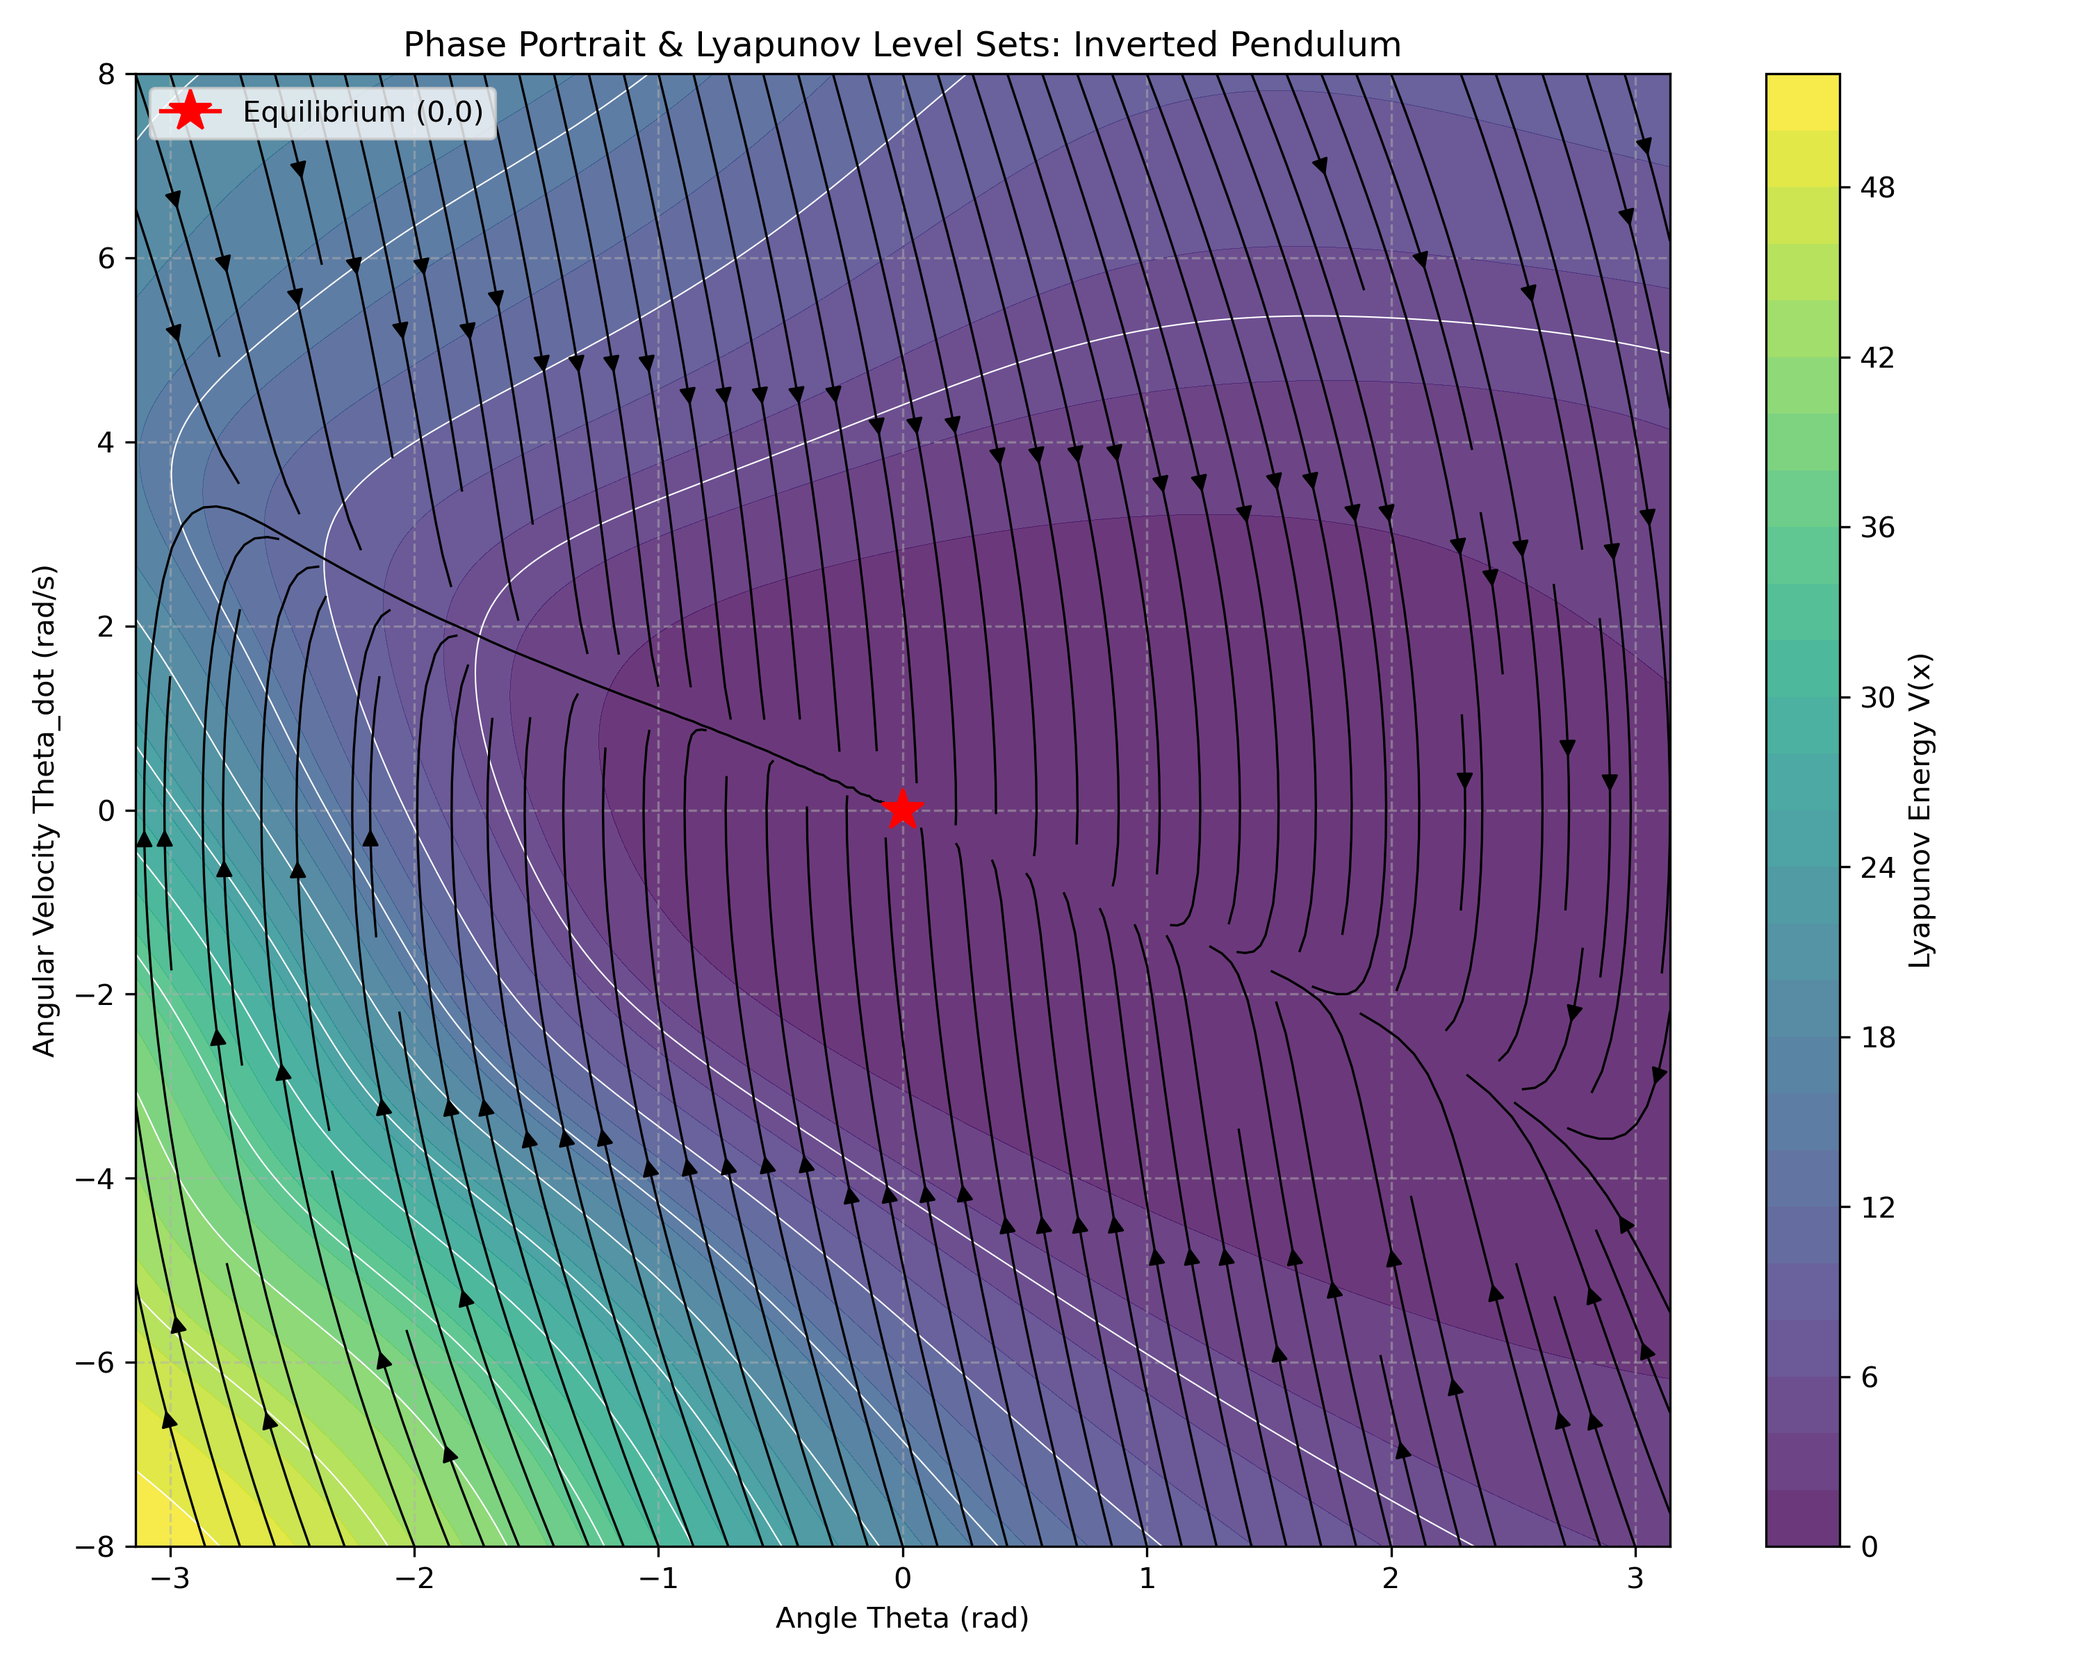
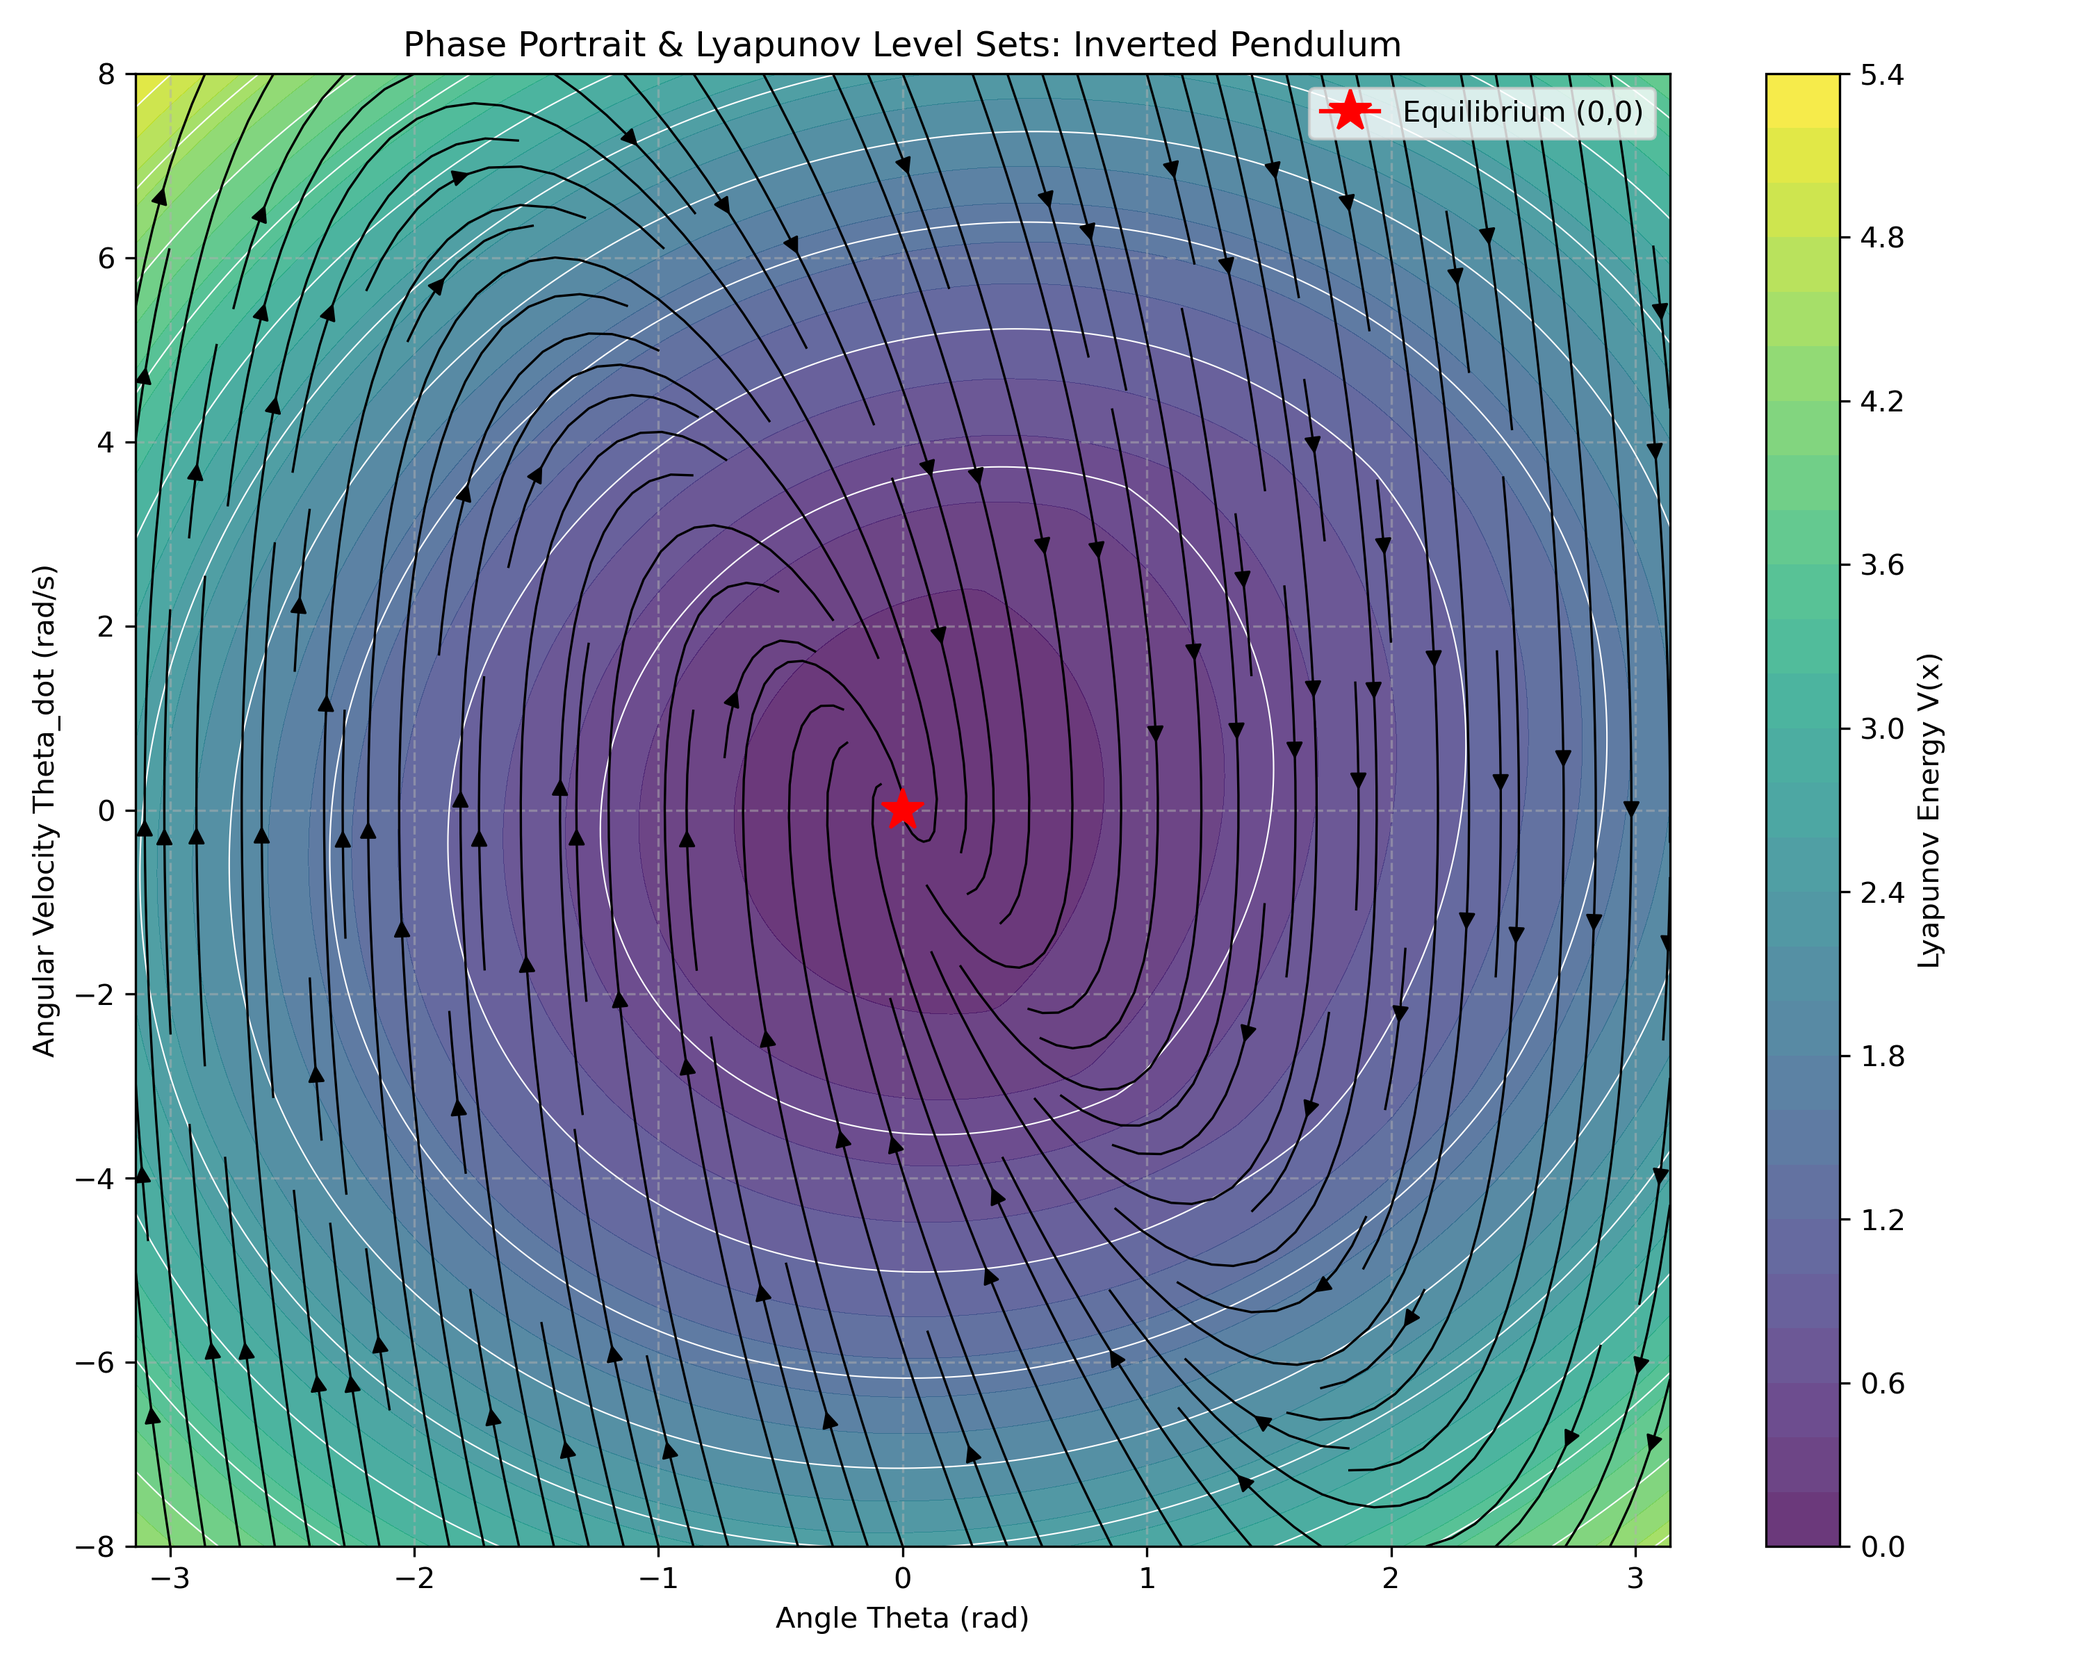
Refactor PGD attacker and CEGIS loop for improved performance; update neural controller bounds and training parameters

diff --git a/core/cegis.py b/core/cegis.py
@@ -130,11 +130,17 @@ class PGDAttacker:
             loss_attack.backward()
 
             with torch.no_grad():
-                x_adv = x + self.step_size * x.grad.sign()
+                # TÍNH TOÁN BƯỚC CHÂN TỈ LỆ VỚI KHÔNG GIAN
+                span = x_max - x_min
+                # step_size (vd: 0.01) giờ là 1% của toàn bộ dải vật lý
+                scaled_step = span * self.step_size 
+                
+                x_adv = x + scaled_step * x.grad.sign()
+                
                 if self.noise_scale > 0.0:
-                    # Nhiễu giảm dần theo bước để thoát plateau nhưng vẫn hội tụ cuối vòng.
                     anneal = 1.0 - (step_idx / max(1, self.num_steps - 1))
-                    x_adv = x_adv + self.noise_scale * anneal * torch.randn_like(x_adv)
+                    x_adv = x_adv + self.noise_scale * anneal * span * torch.randn_like(x_adv)
+                
                 x_adv = torch.clamp(x_adv, min=x_min, max=x_max)
 
             x = x_adv.clone().detach().requires_grad_(True)
@@ -232,6 +238,8 @@ class CEGISLoop:
         self,
         x_seed: torch.Tensor,
         x_bounds: tuple,
+        K: torch.Tensor,  # <--- Thêm K
+        S: torch.Tensor,  # <--- Thêm S
         alpha_lyap: float = 0.01,
         train_batch_size: int | None = None,
     ):
@@ -246,34 +254,58 @@ class CEGISLoop:
             train_batch_size = x_seed.shape[0]
 
         x_train = self._build_training_batch(x_bad, train_batch_size)
-        loss = self.learner_step(x_train, alpha_lyap=alpha_lyap)
+        
+        # DEBUG: Kiểm tra mức độ violation từ attacker
+        with torch.no_grad():
+            u_debug = self.controller(x_bad)
+            x_next_debug = self.dynamics.step(x_bad, u_debug)
+            V_curr_debug = self.lyapunov(x_bad)
+            V_next_debug = self.lyapunov(x_next_debug)
+            violation_debug = V_next_debug - (1.0 - alpha_lyap) * V_curr_debug
+            max_violation = torch.max(violation_debug).item()
+            mean_violation = torch.mean(violation_debug).item()
+        
+        loss = self.learner_step(x_train, alpha_lyap=alpha_lyap, K=K, S=S)  # <--- Truyền K, S vào đây
 
         return {
             "loss": loss,
             "bank_size": self.counterexample_bank.size,
             "num_new_bad": int(x_bad.shape[0]),
             "train_batch_size": int(x_train.shape[0]),
+            "max_violation": max_violation,
+            "mean_violation": mean_violation,
         }
 
-    def learner_step(self, x_samples: torch.Tensor, alpha_lyap: float = 0.01):
-        """
-        Một bước huấn luyện (Cập nhật trọng số mạng Neural)
-        """
+    def learner_step(self, x_samples: torch.Tensor, alpha_lyap: float, K: torch.Tensor, S: torch.Tensor):
         self.optimizer.zero_grad()
         
+        # --- 1. LOSS VI PHẠM TỪ PGD (Mở rộng ranh giới) ---
         u = self.controller(x_samples)
         x_next = self.dynamics.step(x_samples, u)
-        
         V_curr = self.lyapunov(x_samples)
         V_next = self.lyapunov(x_next)
+        lyap_decrease_loss = torch.mean(torch.relu(V_next - (1.0 - alpha_lyap) * V_curr))
         
-        # Hàm suy hao Lyapunov: V_next - V_curr <= -alpha * V_curr
-        # => V_next - (1 - alpha) * V_curr <= 0
-        # ReLU sẽ chỉ phạt những điểm lớn hơn 0 (tức là những điểm vi phạm)
-        lyap_decrease_loss = torch.mean(torch.relu(V_next - (1 - alpha_lyap) * V_curr))
+        # --- 2. LOSS MỎ NEO LQR (Giữ hình dáng vật lý tại trung tâm) ---
+        device = x_samples.device
+        # Sinh một batch nhỏ quanh gốc tọa độ (bán kính 0.1)
+        x_small = (torch.rand((128, self.dynamics.nx), device=device) * 2.0 - 1.0) * 0.1
         
-        loss = lyap_decrease_loss
+        u_nn = self.controller(x_small)
+        u_lqr = -torch.matmul(x_small, K.T)
+        u_lqr = torch.clamp(u_lqr, min=-self.controller.u_bound, max=self.controller.u_bound)
+        loss_u = torch.nn.functional.mse_loss(u_nn, u_lqr)
+        
+        V_nn = self.lyapunov(x_small)
+        V_lqr = torch.einsum("bi,ij,bj->b", x_small, S, x_small).unsqueeze(1)
+        loss_v = torch.nn.functional.mse_loss(V_nn, V_lqr)
+        
+        # Gộp loss: Diệt điểm mù (trọng số 1.0) + Giữ mỏ neo (trọng số 0.01 - GẢM từ 0.1)
+        # Giảm anchor weight để learner không bị distract, tập trung vào violation
+        loss = lyap_decrease_loss + 0.01 * (loss_u + loss_v)
+        
         loss.backward()
         self.optimizer.step()
         
+        # FIX: Trả về loss THỰC TẾ được backprop, không phải từng bộ phận mà bị ignore
         return loss.item()

diff --git a/core/models.py b/core/models.py
@@ -5,25 +5,29 @@ import torch.nn as nn
 # 1. NEURAL CONTROLLER
 # ==========================================
 class NeuralController(nn.Module):
-    def __init__(self, nx: int, nu: int, hidden_sizes: list = [64, 64], u_bound: float = 1.0):
+    def __init__(self, nx: int, nu: int, hidden_sizes: list = [64, 64], u_bound: float = 6.0):
         super().__init__()
         self.u_bound = u_bound
+        
+        # [BẢN VÁ]: Khởi tạo giới hạn vật lý để chuẩn hóa (Góc 3.14, Vận tốc 8.0)
+        self.register_buffer("state_limits", torch.tensor([3.1415, 8.0]))
         
         layers = []
         in_size = nx
         for h in hidden_sizes:
             layers.append(nn.Linear(in_size, h))
-            layers.append(nn.Tanh())  # Tanh giúp gradient mượt hơn ReLU trong hệ động lực học
+            layers.append(nn.Tanh())  
             in_size = h
             
         layers.append(nn.Linear(in_size, nu))
-        # Giới hạn lực điều khiển đầu ra trong khoảng [-u_bound, u_bound]
         layers.append(nn.Tanh()) 
         
         self.net = nn.Sequential(*layers)
 
     def forward(self, x: torch.Tensor) -> torch.Tensor:
-        return self.net(x) * self.u_bound
+        # Ép x vật lý về x_norm nằm trong khoảng [-1, 1] để Tanh không bị bão hòa
+        x_norm = x / self.state_limits
+        return self.net(x_norm) * self.u_bound
 
 
 # ==========================================
@@ -33,6 +37,9 @@ class NeuralLyapunov(nn.Module):
     def __init__(self, nx: int, hidden_sizes: list = [64, 64], eps: float = 0.01):
         super().__init__()
         
+        # [BẢN VÁ]: Giới hạn chuẩn hóa
+        self.register_buffer("state_limits", torch.tensor([3.1415, 8.0]))
+        
         layers = []
         in_size = nx
         for h in hidden_sizes:
@@ -40,36 +47,35 @@ class NeuralLyapunov(nn.Module):
             layers.append(nn.Tanh())
             in_size = h
         
-        # Đầu ra của phi_V không cần bị giới hạn số chiều, nhưng thường để bằng nx
         layers.append(nn.Linear(in_size, nx)) 
         self.phi_V = nn.Sequential(*layers)
         
-        # Ma trận R (có thể học được) và hằng số eps cho cụm Positive Definite
-        self.R = nn.Parameter(torch.randn(nx, nx) * 0.1)
+        # FIX: Khởi tạo R lớn hơn (từ 0.1 → 0.5) để P = R^T*R kích thước hợp lý
+        self.R = nn.Parameter(torch.randn(nx, nx) * 0.5)
         self.eps = eps
         
-        # Lưu trước ma trận đơn vị để không phải tạo lại mỗi lần forward
         self.register_buffer("eye", torch.eye(nx))
         self.register_buffer("origin", torch.zeros(1, nx))
 
     def forward(self, x: torch.Tensor) -> torch.Tensor:
-        """
-        Công thức: V(x) = ||phi_V(x) - phi_V(0)||_1 + x^T * (eps * I + R^T * R) * x
-        """
-        # 1. Tính toán phần phi_V(0) (yêu cầu không có gradient backprop qua số 0)
-        zero = self.origin.to(device=x.device, dtype=x.dtype)
+        # 1. Tính phi_0
+        zero_norm = self.origin / self.state_limits
         with torch.no_grad():
-            phi_0 = self.phi_V(zero)   # shape (1, nx)
+            phi_0 = self.phi_V(zero_norm)
 
-        # 2. Tính ||phi_V(x) - phi_V(0)||_1 (Tổng giá trị tuyệt đối dọc theo các chiều state)
-        phi_x = self.phi_V(x)          # shape (B, nx)
+        # 2. Tính ||phi_V(x) - phi_V(0)||_1 trên x đã chuẩn hóa
+        x_norm = x / self.state_limits
+        phi_x = self.phi_V(x_norm)          
         term1 = torch.sum(torch.abs(phi_x - phi_0), dim=1, keepdim=True)
         
-        # 3. Tính x^T * P * x, trong đó P = eps*I + R^T * R
-        # Phép tính này phải thực hiện theo batch ma trận.
+        # 3. Tính x^T * P * x 
+        # (LƯU Ý: Tuyệt đối dùng x GỐC ở đây để bảo toàn kích thước vật lý của mỏ neo LQR)
         P = self.eps * self.eye + torch.matmul(self.R.T, self.R)
-        
-        # torch.einsum('bi,ij,bj->b'...) tính x^T P x cho toàn bộ batch rất nhanh và gọn
         term2 = torch.einsum('bi,ij,bj->b', x, P, x).unsqueeze(1)
         
-        return term1 + term2
+        # 4. BỨC TỎNG GIỚI HẠN V CÓ KÍCH THƯỚC HỢP LÝ:
+        # Thêm max thấp nhất là 0.01 để đảm bảo V > 0 luôn
+        # và có kích thước thích hợp để gradient PGD có thể hoạt động hiệu quả
+        V = term1 + term2
+        V = torch.relu(V) + 0.01
+        return V

diff --git a/train.py b/train.py
@@ -22,9 +22,10 @@ def train():
     S = S.to(device)
 
     # 2. Khởi tạo models
-    controller = NeuralController(nx=2, nu=1, u_bound=2.0).to(device)
+    controller = NeuralController(nx=2, nu=1, u_bound=6.0).to(device)
     lyapunov = NeuralLyapunov(nx=2).to(device)
-    attacker = PGDAttacker(dynamics, controller, lyapunov, num_steps=10, num_restarts=3)
+    # TỐI ƯU HÓA PHASE 2: Giảm steps (100→50) vì backward quá chậm
+    attacker = PGDAttacker(dynamics, controller, lyapunov, num_steps=50, step_size=0.04, num_restarts=3)
     optimizer = optim.Adam(list(controller.parameters()) + list(lyapunov.parameters()), lr=1e-3)
 
     # 3. Khởi tạo CEGIS loop có CounterexampleBank nội bộ
@@ -39,10 +40,10 @@ def train():
         replay_new_ratio=0.25,
     )
 
-    batch_size = 1000
-    attack_seed_size = 500
+    batch_size = 512  # Giảm từ 1000 → 512
+    attack_seed_size = 256  # Giảm từ 500 → 256
     train_batch_size = batch_size
-    learner_updates = 5
+    learner_updates = 2  # Giảm từ 5 → 2
 
     # =========================================================
     # PHASE 1: LQR PRE-TRAINING
@@ -74,28 +75,40 @@ def train():
     # PHASE 2: CEGIS LOOP
     # =========================================================
     print("\n--- BẮT ĐẦU PHASE 2: CEGIS LOOP ---")
-    epochs = 500
+    epochs = 300  # Giảm từ 500 → 300 epochs
     alpha_lyap = 0.05
     for epoch in range(epochs):
         total_loss = 0
         bank_size = 0
 
+        # TÍNH TOÁN RANH GIỚI TÌM KIẾM ĐỘNG (CURRICULUM LEARNING)
+        # Đi từ 50% không gian ở Epoch 0 lên 100% không gian ở Epoch cuối (từ 10% → 50%)
+        progress = epoch / max(1, epochs - 1)
+        current_scale = 0.5 + 0.5 * progress
+        current_x_min = x_min * current_scale
+        current_x_max = x_max * current_scale
+        current_bounds = (current_x_min, current_x_max)
+
         for _ in range(learner_updates):
-            # Seed rải đều toàn miền để attacker khám phá phản ví dụ mới liên tục.
-            x_seeds = x_min + torch.rand((attack_seed_size, 2), device=device) * (x_max - x_min)
+            # Seed rải đều trong vùng giới hạn hiện tại, KHÔNG rải toàn miền
+            x_seeds = current_x_min + torch.rand((attack_seed_size, 2), device=device) * (current_x_max - current_x_min)
+            
             info = cegis.cegis_step(
                 x_seed=x_seeds,
-                x_bounds=x_bounds,
+                x_bounds=current_bounds, # <-- Truyền ranh giới đã thu nhỏ
+                K=K,
+                S=S,
                 alpha_lyap=alpha_lyap,
                 train_batch_size=train_batch_size,
             )
             total_loss += info["loss"]
             bank_size = info["bank_size"]
 
-        if epoch % 20 == 0:
+        if epoch % 30 == 0:  # Tăng checkpoint từ 20 → 30
             print(
-                f"CEGIS Epoch {epoch:03d} | Counterexample Bank: {bank_size} | "
-                f"Violation Loss: {total_loss / learner_updates:.6f}"
+                f"CEGIS Epoch {epoch:03d} | Quy mô Box: {current_scale*100:.1f}% | "
+                f"Bank: {bank_size} | Loss: {total_loss / learner_updates:.6f} | "
+                f"Max Violt: {info['max_violation']:.6f} | Mean Violt: {info['mean_violation']:.6f}"
             )
 
     # 4. Lưu trọng số

diff --git a/evaluate.py b/evaluate.py
@@ -9,7 +9,7 @@ def plot_phase_portrait():
     device = torch.device("cpu") # Vẽ đồ thị thì dùng CPU cho tiện xử lý mảng NumPy
     dynamics = PendulumDynamics().to(device)
     
-    controller = NeuralController(nx=2, nu=1, u_bound=2.0).to(device)
+    controller = NeuralController(nx=2, nu=1, u_bound=6.0).to(device)
     lyapunov = NeuralLyapunov(nx=2).to(device)
     
     try:
